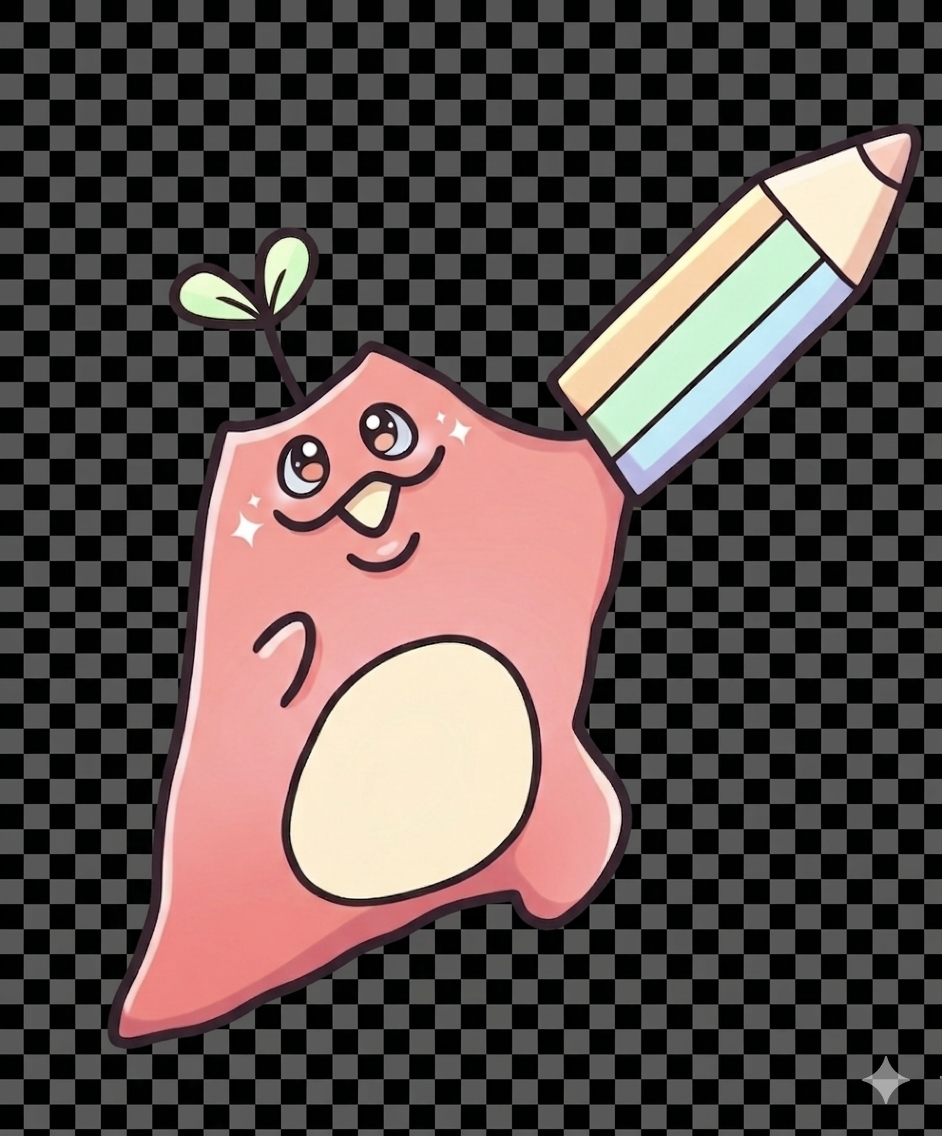
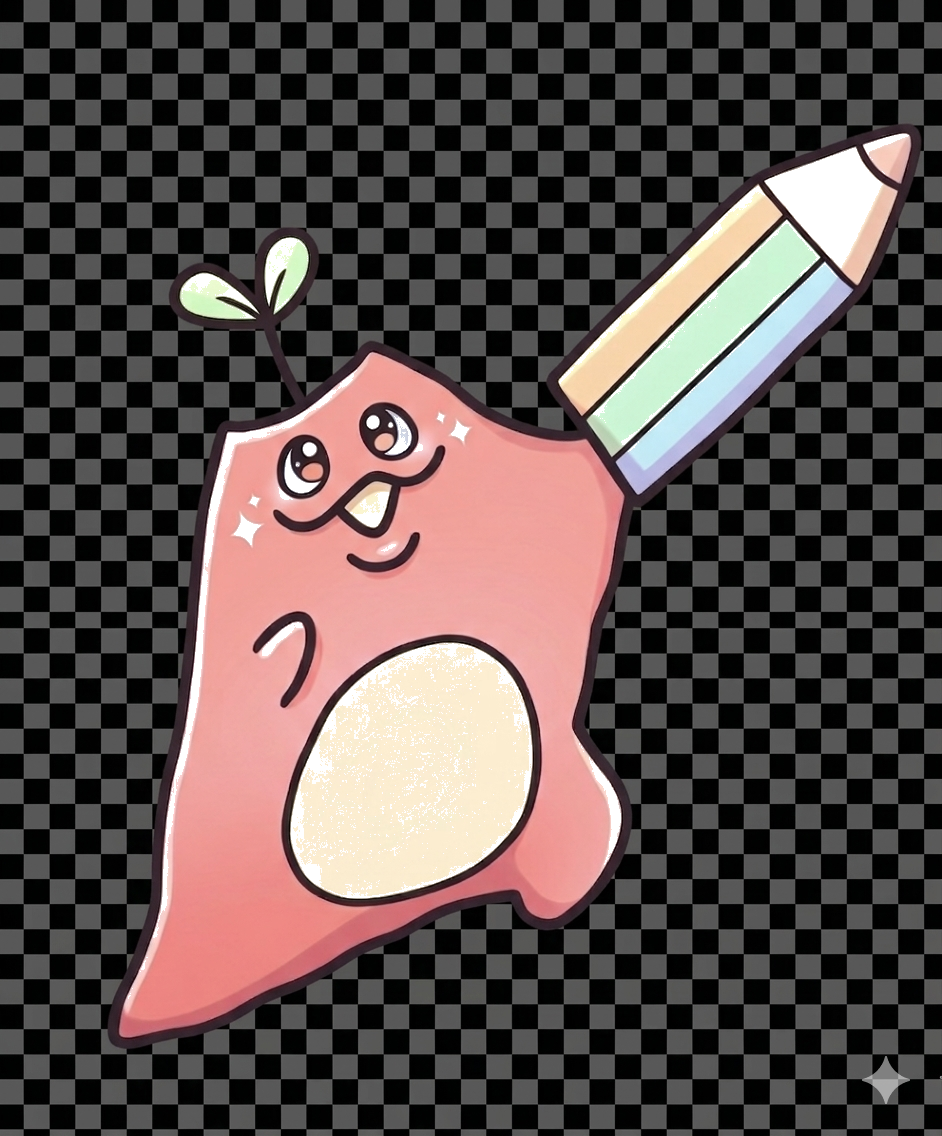
fix: アプリー画像の透過処理と、正解時のミス問題リストからの除外ロジックを追加

diff --git a/app.js b/app.js
@@ -282,6 +282,12 @@ document.addEventListener('DOMContentLoaded', () => {
             btnElement.classList.add('correct');
             feedbackBox.classList.add('success');
             feedbackHeadline.innerHTML = '✅ 正解！';
+            
+            // 過去に間違えた問題であれば、正解した今回でリストから削除する
+            if (userData.misses.has(q.id)) {
+                userData.misses.delete(q.id);
+                saveUserData();
+            }
         } else {
             btnElement.classList.add('incorrect');
             feedbackBox.classList.add('error');
